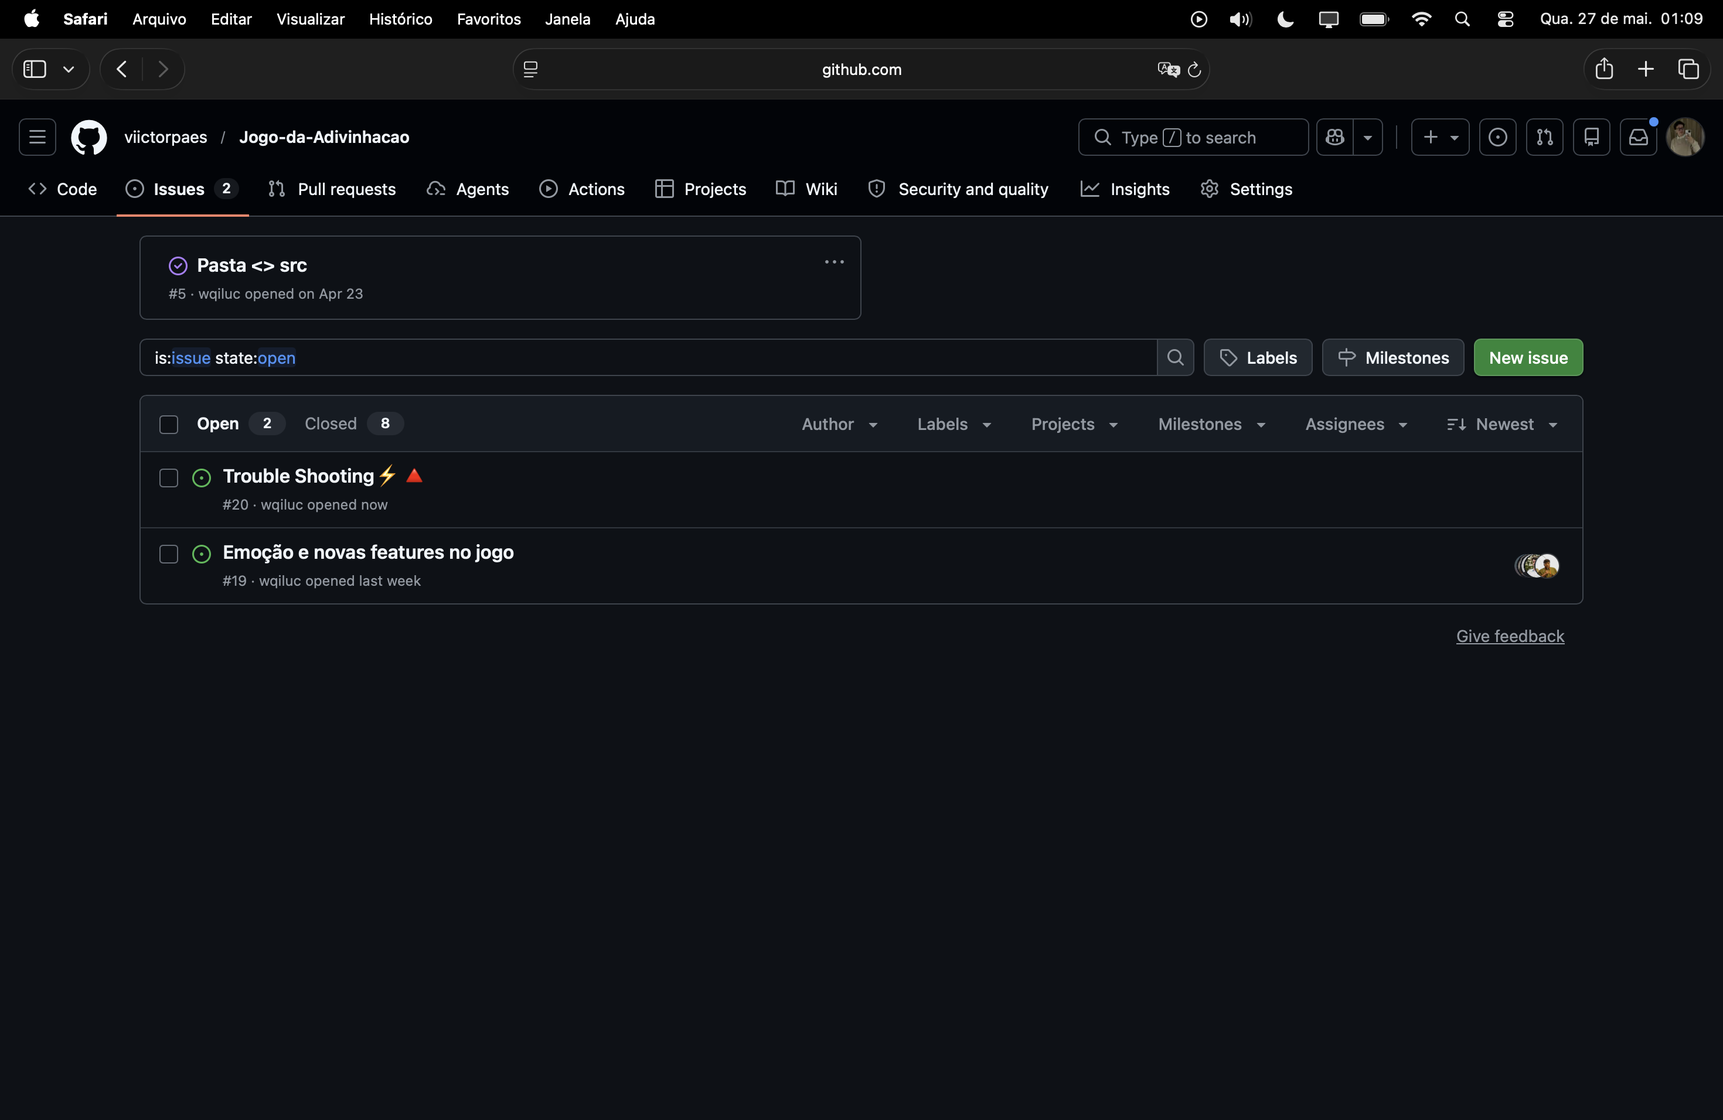
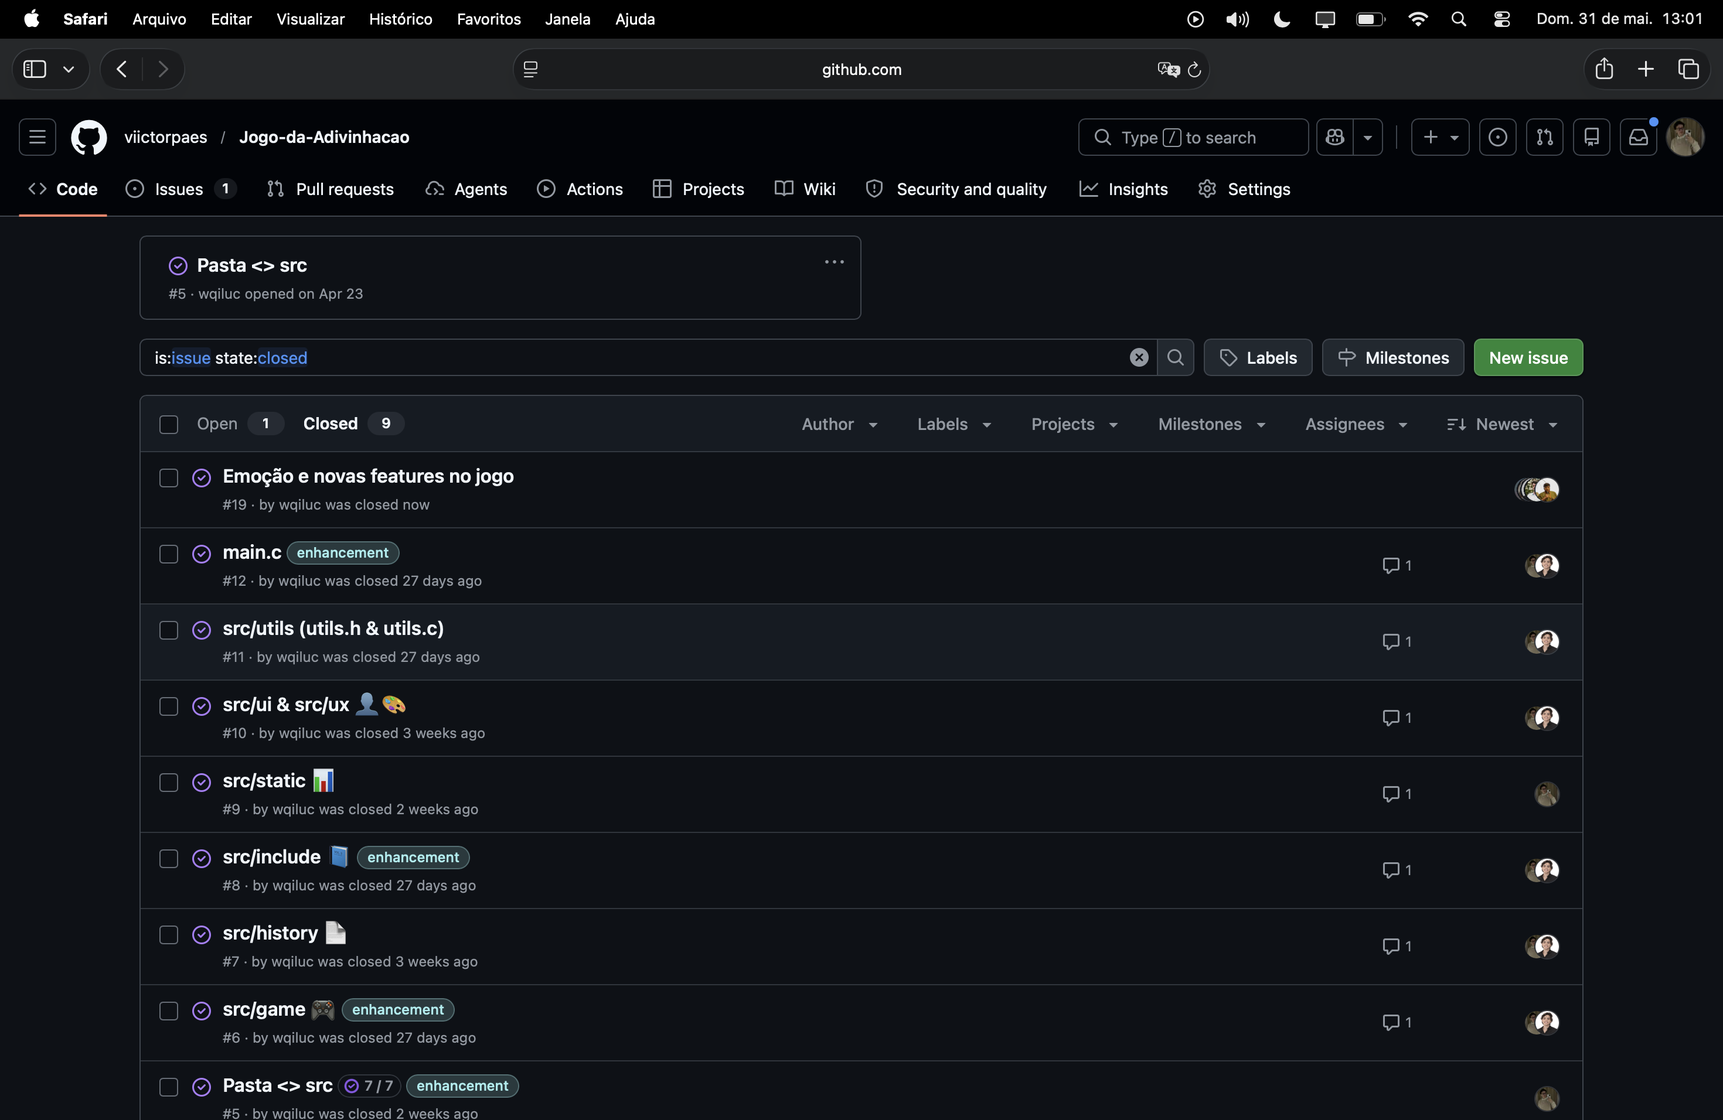
eat: documentações e pipeline atualizados para a Entrega 4 de FDS
Atualiza README, docs e CI/CD em preparação à Entrega 4 do Capstone:
- README: badges de plataforma reformulados (macOS, Ubuntu, Windows) com cores corretas
- ARCHITECTURE.md: seção CI/CD adicionada descrevendo a pasta .github/, workflows e md/Deploy.md
- release.yml: badges de plataforma adicionados na nota de release e na tabela de downloads
- docs (CONTRIBUTING, FRONTEND_RAYLIB, SECURITY): badges e formatação padronizados
- Imagens de issues atualizadas (concluídas e em andamento)

diff --git a/README.md b/README.md
@@ -5,11 +5,10 @@
 <img src="https://img.shields.io/badge/-GCC-020617?style=flat-square&logo=gnu&logoColor=white"/>
 <img src="https://img.shields.io/badge/-Raylib-020617?style=flat-square&logo=raylib&logoColor=white"/>
 
-
 [![License: MIT](https://img.shields.io/badge/License-MIT-orange.svg)](https://github.com/viictorpaes/Jogo-da-Adivinhacao/blob/main/LICENSE)
 [![Build & Release](https://github.com/viictorpaes/Jogo-da-Adivinhacao/actions/workflows/release.yml/badge.svg)](https://github.com/viictorpaes/Jogo-da-Adivinhacao/actions/workflows/release.yml)
 [![GitHub Release](https://img.shields.io/github/v/release/viictorpaes/Jogo-da-Adivinhacao?label=deploy&logo=github)](https://github.com/viictorpaes/Jogo-da-Adivinhacao/releases/latest)
-![Version](https://img.shields.io/badge/version-1.0.0-blue)
+![Version](https://img.shields.io/badge/version-1.0.0-yellow)
 </h1>
 
 <h2 align="center">👥👨🏻🏫 Docentes Responsáveis: </h2>
@@ -86,7 +85,7 @@
 <img src="https://img.shields.io/badge/-Raylib-111827?style=flat-square&logo=raylib&logoColor=white"/></h2>
 
 <h3>
-<img src="https://img.shields.io/badge/macOS-020617?style=flat-square&logo=apple&logoColor=white" alt="macOS"/>
+<img src="https://img.shields.io/badge/macOS-white?style=flat&logo=apple&logoColor=black" alt="macOS"/>
 </h3>
 
 ```bash
@@ -94,7 +93,7 @@ brew install raylib
 ```
 
 <h3>
-<img src="https://img.shields.io/badge/Linux%20%2F%20Ubuntu-020617?style=flat-square&logo=ubuntu&logoColor=E95420" alt="Ubuntu"/>
+<img src="https://img.shields.io/badge/Ubuntu-E95420?style=flat-square&logo=ubuntu&logoColor=white" alt="Ubuntu"/>
 </h3>
 
 ```bash
@@ -102,7 +101,7 @@ sudo apt-get install libraylib-dev
 ```
 
 <h3>
[2 lines of base64/hex data omitted]
 </h3>
 
 No terminal do **MSYS2 MinGW 64-bit**:
@@ -114,7 +113,7 @@ pacman -S mingw-w64-x86_64-raylib
 Depois, `make raylib` funciona normalmente dentro do mesmo terminal MSYS2.
 
 <h3>
[2 lines of base64/hex data omitted]
 </h3>
 
 Baixe os binários pré-compilados em [raylib.com/download](https://www.raylib.com/index.html), extraia (ex.: `C:\raylib`) e compile passando o caminho:
@@ -141,15 +140,15 @@ Após baixar o Github desktop: <br>
 5. **Siga os seguintes comandos 🕹** <br>
    <ul>
   <li>
[2 lines of base64/hex data omitted]
     <code>Ctrl</code> + <code>j</code> (tecla de crase)
   </li> <br>
   <li>
-    <img src="https://img.shields.io/badge/Linux%20%2F%20Ubuntu-020617?style=flat-square&logo=ubuntu&logoColor=E95420" alt="Linux"/> <br>
+    <img src="https://img.shields.io/badge/Ubuntu-E95420?style=flat-square&logo=ubuntu&logoColor=white" alt="Linux"/> <br>
     <code>Ctrl</code> + <code>j</code> (tecla de crase)
   </li> <br>
   <li>
-    <img src="https://img.shields.io/badge/macOS-020617?style=flat-square&logo=apple&logoColor=white" alt="macOS"/> <br>
+    <img src="https://img.shields.io/badge/macOS-white?style=flat&logo=apple&logoColor=black" alt="macOS"/> <br>
     <code>Command</code> + <code>j</code> (tecla de crase)
   </li>
 </ul> 
@@ -159,7 +158,7 @@ Após baixar o Github desktop: <br>
 <img src="https://img.shields.io/badge/-Makefile-111827?style=flat-square&logo=probot&logoColor=red"/></h2>
 
 <h3>
-<img src="https://img.shields.io/badge/macOS-020617?style=flat-square&logo=apple&logoColor=white" alt="macOS"/>
+<img src="https://img.shields.io/badge/macOS-white?style=flat&logo=apple&logoColor=black" alt="macOS"/>
 </h3>
 
 **Versão terminal:**
@@ -172,7 +171,7 @@ make raylib
 ```
 
 <h3>
-<img src="https://img.shields.io/badge/Linux%20%2F%20Ubuntu-020617?style=flat-square&logo=ubuntu&logoColor=E95420" alt="Ubuntu"/>
+<img src="https://img.shields.io/badge/Ubuntu-E95420?style=flat-square&logo=ubuntu&logoColor=white" alt="Ubuntu"/>
 </h3>
 
 **Versão terminal:**
@@ -185,7 +184,7 @@ make raylib
 ```
 
 <h3>
[2 lines of base64/hex data omitted]
 </h3>
 
 No terminal do **MSYS2 MinGW 64-bit**, os comandos são idênticos:
@@ -200,7 +199,7 @@ make raylib
 ```
 
 <h3>
[2 lines of base64/hex data omitted]
 </h3>
 
 **Versão terminal:**
@@ -346,6 +345,12 @@ Jogo-da-Adivinhacao/
 ├── protótipo.fig <img src="https://img.shields.io/badge/-Figma-111827?style=flat-square&logo=figma&logoColor=F24E1E" height="18"/>
 ├── README.md <img src="https://img.shields.io/badge/-Markdown-111827?style=flat-square&logo=markdown&logoColor=white" height="18"/>
 ├── LICENSE <img src="https://img.shields.io/badge/License-MIT-orange?style=flat-square" height="18"/>
+|
+├── .github <img src="https://img.shields.io/badge/-GitHub-111827?style=flat-square&logo=github&logoColor=white" height="18">/
+│   ├── workflows <img src="https://img.shields.io/badge/-Workflows-111827?style=flat-square&logo=githubactions&logoColor=2088FF" height="18">/
+│   │   └── release.yml <img src="https://img.shields.io/badge/-CI%2FCD-111827?style=flat-square&logo=githubactions&logoColor=2088FF" height="18"/>
+│   └── md <img src="https://img.shields.io/badge/-Docs-111827?style=flat-square&logo=markdown&logoColor=0078D4" height="18">/
+│       └── Deploy.md <img src="https://img.shields.io/badge/-Deploy-111827?style=flat-square&logo=github&logoColor=white" height="18"/>
 ├── docs <img src="https://img.shields.io/badge/-Docs-111827?style=flat-square&logo=read-the-docs&logoColor=0078D4" height="18">/
 │   ├── ADR.md <img src="https://img.shields.io/badge/-ADR-111827?style=flat-square&logo=blueprint&logoColor=4CAF50" height="18"/>
 │   ├── API.md <img src="https://img.shields.io/badge/-API-111827?style=flat-square&logo=markdown&logoColor=FFB13B" height="18"/>
@@ -473,6 +478,23 @@ Jogo-da-Adivinhacao/
   <b>Baixe o executável pré-compilado para o seu sistema operacional diretamente na página de releases.<br>
   A URL 🔗 aparece no Screencast 3 (Entrega 04).</b>
 </p>
+
+<h2 align="center">🆕 Entrega 4 — Novas Histórias de Usuário</h2>
+
+<p align="center">
+  <img src="https://img.shields.io/badge/Entrega_4-6_novas_HUs_implementadas-7C3AED?style=flat-square&logo=checkmarx&logoColor=white" height="22"/>
+</p>
+
+| # | História de Usuário | Par | Módulo |
+| :---: | :--- | :--- | :--- |
+| **HU‑E4‑01** | Como **jogador VS Memória**, quero um **timer independente** por jogador para que cada turno seja cronometrado individualmente, sem interferência do adversário | Helamã + Eduardo | `memorygame.c` |
+| **HU‑E4‑02** | Como **jogador VS Memória**, quero que o timer acumulado seja **carregado entre fases** para que a vantagem de tempo conquistada não seja zerada a cada rodada | Helamã + Eduardo | `memorygame.c` |
+| **HU‑E4‑03** | Como **jogador**, quero **filtrar o histórico pelo meu nome** para que eu veja apenas as minhas sessões, sem as dos outros jogadores cadastrados | Felipe + Tiago | `historico.c` |
+| **HU‑E4‑04** | Como **jogador**, quero que o campo de nome ofereça **autocomplete** com os nomes já salvos para que o preenchimento seja mais rápido e sem erros de digitação | Felipe + Tiago | `historico.c` |
+| **HU‑E4‑05** | Como **jogador**, quero acessar todos os **6 modos de jogo na versão Raylib** com timers e lógica de bônus/penalidade plenamente integrados para uma experiência visual completa | Lucas + Victor | `frontend.c` / `tipos.h` |
+| **HU‑E4‑06** | Como **desenvolvedor**, quero que o projeto compile **sem ajustes manuais** em Windows (MSYS2/MinGW) e Linux (Ubuntu) para que qualquer integrante possa contribuir na sua plataforma | João Pedro | `Makefile` |
+
+<br>
 
 <h2 align="center">Telas 📱 <br></h2>
 

diff --git a/.github/md/Deploy.md b/.github/md/Deploy.md
@@ -1,0 +1,154 @@
+<h1 align="center">Deploy & CI/CD<br>
+<img src="https://img.shields.io/badge/GitHub%20Actions-111827?style=flat-square&logo=githubactions&logoColor=2088FF" height="25"/>
+<img src="https://img.shields.io/badge/GitHub%20Releases-111827?style=flat-square&logo=github&logoColor=white" height="25"/></h1>
+
+<p align="center"><b>Pipeline automatizado de build e publicação de releases multiplataforma via GitHub Actions.</b></p>
+
+---
+
+## 🚀 Visão Geral
+
+O deploy do projeto é 100% automatizado: ao criar e empurrar uma **tag `v*`** no repositório, o workflow `.github/workflows/release.yml` compila o binário da versão Raylib em três plataformas em paralelo e publica todos os artefatos em uma **GitHub Release** pública.
+
+```
+git tag v1.0.0
+git push origin v1.0.0
+        │
+        ▼
+  GitHub Actions
+  ┌─────────────────────────────────────────┐
+  │  build-macos  │  build-linux  │  build-windows  │
+  └──────────────────┬──────────────────────┘
+                     ▼
+              release job
+         (cria GitHub Release
+          + anexa os 3 .zip)
+```
+
+---
+
+## ⚡ Gatilho do Pipeline
+
+| Evento | Comportamento |
+| :--- | :--- |
+| `push` em tag `v*` | Compila as 3 plataformas **e** publica a Release |
+| `workflow_dispatch` | Compila as 3 plataformas, mas **não** publica Release (útil para testes de build) |
+
+---
+
+## 🏗 Matriz de Jobs
+
+### <img src="https://img.shields.io/badge/macOS-white?style=flat&logo=apple&logoColor=black" height="18" alt="macOS"/> `build-macos` — `macos-latest`
+
+| Etapa | Detalhe |
+| :--- | :--- |
+| **Checkout** | `actions/checkout@v4` |
+| **Instalar Raylib** | `brew install raylib` |
+| **Compilar** | `make build-raylib` |
+| **Empacotar** | Copia `jogo_raylib` + `StarWarsMainTheme.mp3` → `jogo_raylib_macos.zip` |
+| **Upload artefato** | `actions/upload-artifact@v4` → `jogo_raylib_macos` |
+
+---
+
+### <img src="https://img.shields.io/badge/Ubuntu%2022.04-E95420?style=flat-square&logo=ubuntu&logoColor=white" height="18" alt="Ubuntu 22.04"/> `build-linux` — `ubuntu-22.04`
+
+| Etapa | Detalhe |
+| :--- | :--- |
+| **Checkout** | `actions/checkout@v4` |
+| **Instalar dependências** | `gcc`, `make`, `libgl1-mesa-dev`, `libxi-dev`, `libxcursor-dev`, `libxinerama-dev`, `libxrandr-dev`, `libasound2-dev` |
+| **Compilar Raylib 5.0 from source** | Clone `raysan5/raylib@5.0` → `make PLATFORM=PLATFORM_DESKTOP` → `sudo make install` |
+| **Compilar jogo** | `make build-raylib RAYLIB_FLAGS="-I/usr/local/include -L/usr/local/lib -lraylib -lGL -lm -lpthread -ldl -lX11"` |
+| **Empacotar** | Copia `jogo_raylib` + `StarWarsMainTheme.mp3` → `jogo_raylib_linux.zip` |
+| **Upload artefato** | `actions/upload-artifact@v4` → `jogo_raylib_linux` |
+
+> [!NOTE]
+> O Ubuntu não disponibiliza o Raylib 5.x via `apt`, por isso o job compila a biblioteca do código-fonte diretamente. Isso garante compatibilidade total com a versão usada no projeto.
+
+---
+
+### <img src="https://img.shields.io/badge/Windows%2010%2F11-2563EB?style=flat&logo=windows&logoColor=white" height="18" alt="Windows"/> `build-windows` — `windows-latest` + MSYS2/MinGW64
+
+| Etapa | Detalhe |
+| :--- | :--- |
+| **Checkout** | `actions/checkout@v4` |
+| **Setup MSYS2** | `msys2/setup-msys2@v2` — sistema `MINGW64`, instala `mingw-w64-x86_64-gcc`, `mingw-w64-x86_64-make`, `mingw-w64-x86_64-raylib`, `zip` |
+| **Compilar** | `mingw32-make build-raylib` (shell MSYS2) |
+| **Empacotar** | Copia `jogo_raylib.exe` + `StarWarsMainTheme.mp3` + DLLs necessárias (`libgcc_s_seh-1.dll`, `libwinpthread-1.dll`, `libraylib.dll`) → `jogo_raylib_windows.zip` |
+| **Upload artefato** | `actions/upload-artifact@v4` → `jogo_raylib_windows` |
+
+> [!IMPORTANT]
+> As DLLs do MinGW são incluídas no `.zip` para que o executável rode **sem precisar do MSYS2 instalado** na máquina do usuário final.
+
+---
+
+## 📦 Estrutura dos Artefatos
+
+Cada `.zip` contém:
+
+```
+jogo_raylib_<plataforma>.zip
+├── jogo_raylib          ← binário (Linux/macOS) ou jogo_raylib.exe (Windows)
+├── src/
+│   └── music/
+│       └── StarWarsMainTheme.mp3   ← trilha sonora (caminho relativo obrigatório)
+└── data/                           ← pasta vazia; o jogo cria os .csv/.txt aqui
+```
+
+> [!WARNING]
+> Execute o binário **sempre de dentro da pasta extraída**. O caminho relativo `src/music/StarWarsMainTheme.mp3` é exigido pelo módulo `music/` em tempo de execução. Se o executável for movido sem a pasta, a trilha sonora não carregará.
+
+---
+
+## 🏷 Job `release` — GitHub Release
+
+O job `release` depende dos três jobs de build (`needs: [build-macos, build-linux, build-windows]`) e só é executado quando o `github.ref` começa com `refs/tags/`.
+
+| Etapa | Detalhe |
+| :--- | :--- |
+| **Download artefatos** | `actions/download-artifact@v4` — baixa os 3 `.zip` gerados nos jobs anteriores |
+| **Criar Release** | `softprops/action-gh-release@v2` — cria Release com nome `Jogo da Adivinhação <tag>` e anexa os 3 `.zip` |
+
+A Release é publicada como **não-rascunho** e **não-pré-release** automaticamente.
+
+---
+
+## 🌐 Plataformas Suportadas
+
+<p align="center">
+<img src="https://img.shields.io/badge/macOS-white?style=flat&logo=apple&logoColor=black" height="22" alt="macOS"/>
+<img src="https://img.shields.io/badge/Ubuntu%2022.04-E95420?style=flat-square&logo=ubuntu&logoColor=white" height="22" alt="Linux / Ubuntu 22.04"/>
+<img src="https://img.shields.io/badge/Windows%2010%2F11-2563EB?style=flat&logo=windows&logoColor=white" height="22" alt="Windows 10/11"/>
+</p>
+
+| Plataforma | Runner | Arquivo | Executável |
+| :--- | :--- | :--- | :--- |
+| <img src="https://img.shields.io/badge/macOS-white?style=flat&logo=apple&logoColor=black" height="16"/> macOS | `macos-latest` | `jogo_raylib_macos.zip` | `./jogo_raylib` |
+| <img src="https://img.shields.io/badge/Ubuntu-E95420?style=flat-square&logo=ubuntu&logoColor=white" height="16"/> Linux (Ubuntu/Debian x64) | `ubuntu-22.04` | `jogo_raylib_linux.zip` | `./jogo_raylib` |
+| <img src="https://img.shields.io/badge/Windows-2563EB?style=flat&logo=windows&logoColor=white" height="16"/> Windows 10/11 | `windows-latest` | `jogo_raylib_windows.zip` | `jogo_raylib.exe` |
+
+---
+
+## 🔖 Como Publicar uma Nova Release
+
+```bash
+# 1. Certifique-se de que o branch principal está atualizado
+git checkout main
+git pull
+
+# 2. Crie e empurre a tag semântica
+git tag v1.2.0
+git push origin v1.2.0
+```
+
+O GitHub Actions dispara automaticamente o pipeline. Acompanhe em:
+`https://github.com/viictorpaes/Jogo-da-Adivinhacao/actions`
+
+---
+
+## 🔗 Links Úteis
+
+| Recurso | Link |
+| :--- | :--- |
+| Último release publicado | [![GitHub Release](https://img.shields.io/github/v/release/viictorpaes/Jogo-da-Adivinhacao?label=deploy&logo=github)](https://github.com/viictorpaes/Jogo-da-Adivinhacao/releases/latest) |
+| Status do CI | [![Build & Release](https://github.com/viictorpaes/Jogo-da-Adivinhacao/actions/workflows/release.yml/badge.svg)](https://github.com/viictorpaes/Jogo-da-Adivinhacao/actions/workflows/release.yml) |
+| Workflow fonte | [`.github/workflows/release.yml`](../workflows/release.yml) |

diff --git a/docs/CONTRIBUTING.md b/docs/CONTRIBUTING.md
@@ -77,7 +77,7 @@ Antes de começar, certifique-se de ter instalado:
 
 ## 💻 Configuração do Ambiente
 
-### <img src="https://img.shields.io/badge/macOS-020617?style=flat&logo=apple&logoColor=white" alt="macOS" height="18"/>
+### <img src="https://img.shields.io/badge/macOS-white?style=flat&logo=apple&logoColor=black" alt="macOS" height="18"/>
 
 ```bash
 # 1. Instalar Homebrew (se ainda não tiver)
@@ -97,7 +97,7 @@ git clone https://github.com/viictorpaes/Jogo-da-Adivinhacao.git
 cd Jogo-da-Adivinhacao
 ```
 
-### <img src="https://img.shields.io/badge/Ubuntu%20%2F%20Debian-020617?style=flat&logo=ubuntu&logoColor=orange" alt="Ubuntu" height="18"/>
+### <img src="https://img.shields.io/badge/Ubuntu-E95420?style=flat-square&logo=ubuntu&logoColor=white" alt="Ubuntu" height="18"/>
 
 ```bash
 # 1. Atualizar lista de pacotes
@@ -117,7 +117,7 @@ git clone https://github.com/viictorpaes/Jogo-da-Adivinhacao.git
 cd Jogo-da-Adivinhacao
 ```
 
[2 lines of base64/hex data omitted]
 
 > Baixe e instale o [MSYS2](https://www.msys2.org). Abra o terminal **MSYS2 MinGW 64-bit**.
 
@@ -139,7 +139,7 @@ cd Jogo-da-Adivinhacao
 > [!TIP]
 > No MSYS2, `mingw32-make` pode ser necessário no lugar de `make`. Caso ocorra erro, tente: `alias make=mingw32-make`.
 
[2 lines of base64/hex data omitted]
 
 Baixe os binários pré-compilados do Raylib em [raylib.com](https://www.raylib.com/index.html), extraia (ex.: `C:\raylib`) e compile passando o caminho:
 

diff --git a/docs/ARCHITECTURE.md b/docs/ARCHITECTURE.md
@@ -14,6 +14,11 @@ Jogo-da-Adivinhacao/
 ├── protótipo.fig <img src="https://img.shields.io/badge/-Figma-111827?style=flat-square&logo=figma&logoColor=F24E1E" height="18"/>
 ├── README.md <img src="https://img.shields.io/badge/-Markdown-111827?style=flat-square&logo=markdown&logoColor=white" height="18"/>
 ├── LICENSE <img src="https://img.shields.io/badge/License-MIT-orange?style=flat-square" height="18"/>
+├── .github <img src="https://img.shields.io/badge/-GitHub%20Actions-111827?style=flat-square&logo=githubactions&logoColor=2088FF" height="18">/
+│   ├── workflows <img src="https://img.shields.io/badge/-Workflows-111827?style=flat-square&logo=githubactions&logoColor=2088FF" height="18">/
+│   │   └── release.yml <img src="https://img.shields.io/badge/-CI%2FCD-111827?style=flat-square&logo=githubactions&logoColor=2088FF" height="18"/>
+│   └── md <img src="https://img.shields.io/badge/-Docs-111827?style=flat-square&logo=markdown&logoColor=white" height="18">/
+│       └── Deploy.md <img src="https://img.shields.io/badge/-Deploy-111827?style=flat-square&logo=github&logoColor=white" height="18"/>
 ├── docs <img src="https://img.shields.io/badge/-Docs-111827?style=flat-square&logo=read-the-docs&logoColor=0078D4" height="18">/
 │   ├── ADR.md <img src="https://img.shields.io/badge/-ADR-111827?style=flat-square&logo=blueprint&logoColor=4CAF50" height="18"/>
 │   ├── API.md <img src="https://img.shields.io/badge/-API-111827?style=flat-square&logo=markdown&logoColor=FFB13B" height="18"/>
@@ -109,6 +114,25 @@ Gerencia o processo de build do projeto. Suporta duas versões compiláveis — 
 | `make test` | Executa os testes do projeto |
 | `make DEBUG=1` | Compila com símbolos de depuração (`-g -O0`) |
 | `make help` | Exibe todos os comandos disponíveis |
+
+---
+
+## 🤖 CI/CD e Deploy (`.github/`)
+
+<img src="https://img.shields.io/badge/-GitHub%20Actions-111827?style=flat-square&logo=githubactions&logoColor=2088FF" height="18"/><br>
+Automatiza o build multiplataforma e a publicação de releases. A pasta `.github/` contém dois subdiretórios:
+
+| Subdiretório | Conteúdo | Responsabilidade |
+| :--- | :--- | :--- |
+| `workflows/release.yml` <img src="https://img.shields.io/badge/-CI%2FCD-111827?style=flat-square&logo=githubactions&logoColor=2088FF" height="16"/> | Pipeline YAML do GitHub Actions | Compila a versão Raylib em **macOS**, **Linux (Ubuntu 22.04)** e **Windows (MSYS2/MinGW64)** em paralelo; publica os três binários como **GitHub Release** ao detectar uma tag `v*` |
+| `md/Deploy.md` <img src="https://img.shields.io/badge/-Deploy-111827?style=flat-square&logo=github&logoColor=white" height="16"/> | Documentação do pipeline | Descreve gatilhos, matriz de jobs, estrutura dos artefatos, DLLs empacotadas e instruções para publicar uma nova release |
+
+O pipeline é disparado de duas formas:
+
+- **`push` de tag `v*`** — compila e publica a Release automaticamente  
+- **`workflow_dispatch`** — compila sem publicar (útil para validar builds)
+
+> Consulte [`.github/md/Deploy.md`](../.github/md/Deploy.md) para a documentação completa do fluxo de CI/CD.
 
 ---
 

diff --git a/docs/FRONTEND_RAYLIB.md b/docs/FRONTEND_RAYLIB.md
@@ -44,7 +44,7 @@ make clean         # Remove todos os arquivos compilados
 ## 🛠 Instalação do Raylib
 
 <h3>
-<img src="https://img.shields.io/badge/macOS-020617?style=flat&logo=apple&logoColor=white" alt="macOS"/>
+<img src="https://img.shields.io/badge/macOS-white?style=flat&logo=apple&logoColor=black" alt="macOS"/>
 </h3>
 
 ```bash
@@ -52,7 +52,7 @@ brew install raylib
 ```
 
 <h3>
-<img src="https://img.shields.io/badge/Ubuntu%20%2F%20Debian-020617?style=flat&logo=ubuntu&logoColor=orange" alt="Ubuntu"/>
+<img src="https://img.shields.io/badge/Ubuntu-E95420?style=flat-square&logo=ubuntu&logoColor=white" alt="Ubuntu"/>
 </h3>
 
 ```bash
@@ -60,7 +60,7 @@ sudo apt-get install libraylib-dev
 ```
 
 <h3>
[2 lines of base64/hex data omitted]
 </h3>
 
 ```bash

diff --git a/docs/SECURITY.md b/docs/SECURITY.md
@@ -66,8 +66,8 @@ Para os intervalos deste jogo (50, 100, 200 valores) e para o embaralhamento (N 
 
 | Plataforma | Alternativa sem viés |
 | :--- | :--- |
-| <img src="https://img.shields.io/badge/macOS-020617?style=flat&logo=apple&logoColor=white" alt="macOS"/> | `arc4random_uniform(N)` — CSPRNG nativo, sem `srand()` |
-| <img src="https://img.shields.io/badge/Linux-020617?style=flat&logo=linux&logoColor=yellow" alt="Linux"/> | `getrandom()` syscall + *rejection sampling* |
+| <img src="https://img.shields.io/badge/macOS-white?style=flat&logo=apple&logoColor=black" alt="macOS"/> | `arc4random_uniform(N)` — CSPRNG nativo, sem `srand()` |
+| <img src="https://img.shields.io/badge/Ubuntu-E95420?style=flat-square&logo=ubuntu&logoColor=white" alt="Linux"/> | `getrandom()` syscall + *rejection sampling* |
 | Portabilidade | `rand()` com *rejection sampling* manual |
 
 **Esquema de *rejection sampling*:**
